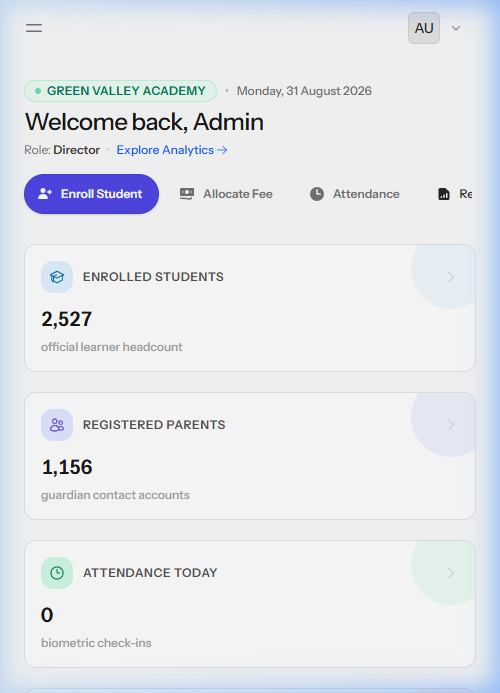
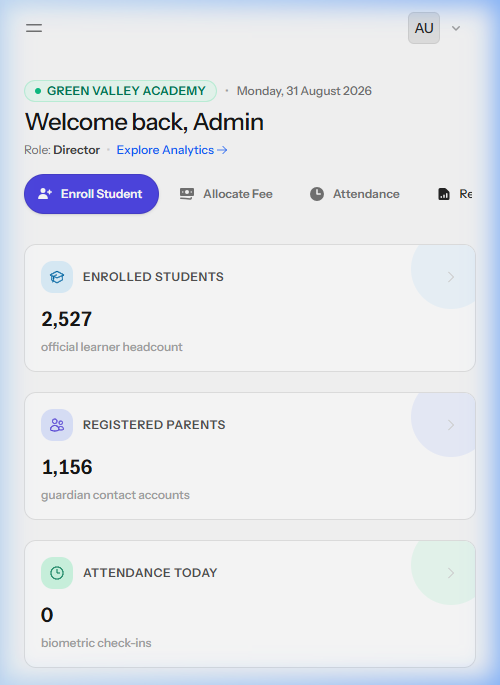
fix(landing): use exact-fit authentic mobile screenshot with zero edge cropping

diff --git a/resources/views/frontend/home.blade.php b/resources/views/frontend/home.blade.php
@@ -54,28 +54,34 @@
             </div>
 
             <!-- Tilted Overlapping Real Device Mockups -->
-            <div class="relative w-full max-w-lg mx-auto aspect-[4/3]" data-animate="right" style="--reveal-delay:120ms">
+            <div class="relative w-full max-w-xl mx-auto aspect-[4/3]" data-animate="right" style="--reveal-delay:120ms">
                 
                 <!-- Back Device (Laptop / Desktop View) -->
-                <div class="absolute right-0 top-2 w-[88%] transform rotate-3 hover:rotate-1 transition-transform duration-500 rounded-xl border border-zinc-200 bg-white p-1.5 shadow-2xl shadow-zinc-900/15 dark:border-white/10 dark:bg-zinc-900">
-                    <div class="flex items-center gap-1.5 px-3 py-2 border-b border-zinc-100 dark:border-zinc-800 bg-zinc-50/50 dark:bg-zinc-900/50 rounded-t-lg">
-                        <span class="size-2.5 rounded-full bg-red-400"></span>
-                        <span class="size-2.5 rounded-full bg-amber-400"></span>
-                        <span class="size-2.5 rounded-full bg-emerald-400"></span>
-                        <span class="ml-3 text-[10px] font-semibold text-zinc-500 uppercase tracking-wider">Solforbs Executive Dashboard</span>
+                <div class="absolute right-0 top-0 w-[88%] transform rotate-2 hover:rotate-0 transition-transform duration-500 rounded-2xl border border-zinc-200/90 bg-white p-2 shadow-2xl shadow-zinc-900/20 dark:border-white/10 dark:bg-zinc-900">
+                    <div class="flex items-center justify-between px-3 py-2 border-b border-zinc-100 dark:border-zinc-800 bg-zinc-50/80 dark:bg-zinc-900/80 rounded-t-xl">
+                        <div class="flex items-center gap-1.5">
+                            <span class="size-2.5 rounded-full bg-red-400"></span>
+                            <span class="size-2.5 rounded-full bg-amber-400"></span>
+                            <span class="size-2.5 rounded-full bg-emerald-400"></span>
+                        </div>
+                        <div class="flex items-center gap-1.5 px-2.5 py-0.5 rounded-md bg-zinc-200/60 dark:bg-zinc-800 text-[10px] font-mono text-zinc-500">
+                            <flux:icon icon="lock-closed" class="size-2.5 text-emerald-500" />
+                            <span>app.solforbs.com/dashboard</span>
+                        </div>
+                        <div class="size-3"></div>
                     </div>
-                    <div class="w-full aspect-video rounded-b overflow-hidden bg-zinc-100 dark:bg-zinc-800 relative group">
-                        <img src="{{ asset('screenshots/dashboard-desktop.png') }}" alt="Solforbs Executive Dashboard" class="w-full h-full object-cover object-top transition-transform duration-700 group-hover:scale-105" />
+                    <div class="w-full aspect-[16/10] rounded-b-xl overflow-hidden bg-zinc-100 dark:bg-zinc-950 relative group">
+                        <img src="{{ asset('screenshots/dashboard-desktop.png') }}" alt="Solforbs Executive Dashboard" class="w-full h-full object-contain object-top transition-transform duration-700 group-hover:scale-[1.02]" />
                     </div>
                 </div>
 
-                <!-- Front Device (Mobile Smartphone View) -->
-                <div class="absolute -left-2 bottom-0 w-[34%] transform -rotate-6 hover:-rotate-2 transition-transform duration-500 rounded-[1.8rem] border-[4px] border-zinc-900 bg-zinc-900 shadow-2xl shadow-zinc-900/50 dark:border-zinc-700">
-                    <div class="flex justify-center pt-2 pb-1.5 bg-zinc-900 rounded-t-[1.5rem]">
+                <!-- Front Device (Smartphone Frame with Exact-Fit Real Mobile Screenshot) -->
+                <div class="absolute -left-2 bottom-0 w-[42%] transform -rotate-3 hover:rotate-0 transition-transform duration-500 rounded-[2.2rem] border-[5px] border-zinc-900 bg-zinc-900 shadow-2xl shadow-zinc-950/60 dark:border-zinc-700 p-1">
+                    <div class="flex justify-center pt-2 pb-1.5 bg-zinc-900 rounded-t-[1.6rem]">
                         <div class="w-12 h-1.5 rounded-full bg-zinc-700 dark:bg-zinc-800"></div>
                     </div>
-                    <div class="w-full aspect-[9/16] rounded-b-[1.5rem] overflow-hidden bg-zinc-950 relative">
-                        <img src="{{ asset('screenshots/dashboard-mobile.png') }}" alt="Solforbs Mobile Experience" class="w-full h-full object-cover object-top" />
+                    <div class="w-full aspect-[500/685] rounded-b-[1.6rem] overflow-hidden bg-zinc-50 dark:bg-zinc-950 relative">
+                        <img src="{{ asset('screenshots/dashboard-mobile.png') }}" alt="Solforbs Mobile Experience" class="w-full h-full object-contain object-top" />
                     </div>
                 </div>
 
